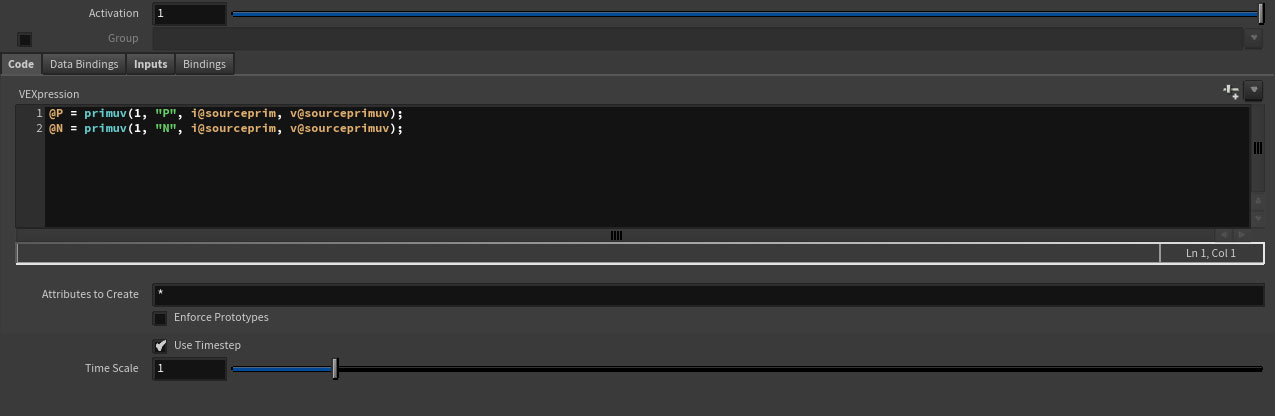
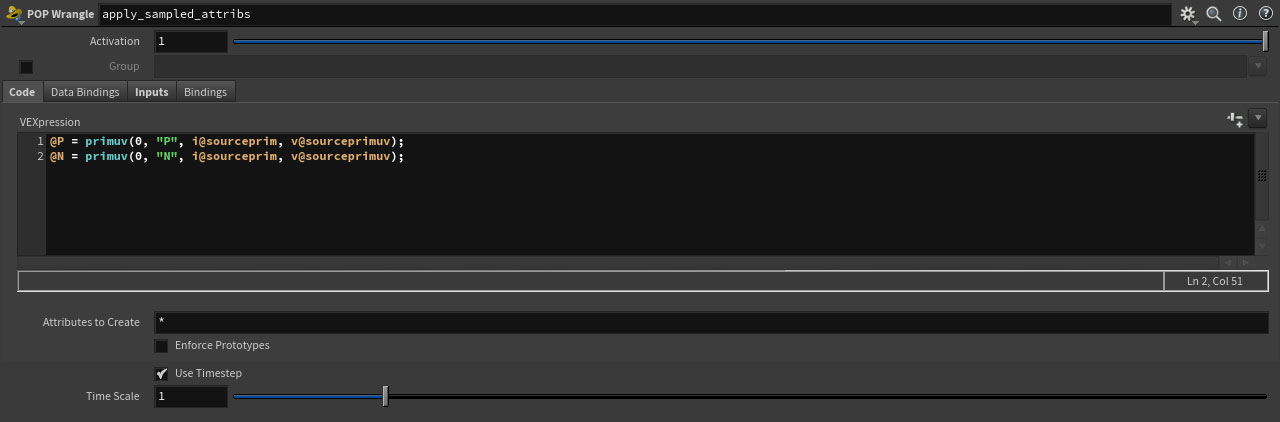
Pops update

diff --git a/_notes/traverse-pops.md b/_notes/traverse-pops.md
@@ -25,11 +25,13 @@ Matt Estela has a longer write up of the extremely useful primuv(), [here](https
 
 With this in mind, we can scatter particles onto prims, record the prim on which that particle sits, and then send it along the prim by adjusting a uv attrib and sampling with ```primuv(0, "P", i@sourceprim, v@sourceuv)```. It's not unlike what the combo of a ScatterSOP (with @sourceprim and @sourceprimuv attribs ticked) followed by an AttributeInterpolateSOP might do. Cool, but what happens when we reach the end of the prim we've been travelling along? We need to pick a new one. So...
 
-This is the POPs network. We have a POPLocation, a clump of nodes that handle the traversal logic, and a couple of nodes for point replication (more on that later).
+This is the POPs network. We have a POPLocation to source points at the root of the network, a clump of nodes that handle the prim traversal logic, and a couple of nodes for point replication (more on that later).
+
+I should also note that the network of curves is the first input of the POPNet, with all wrangles inside having their input parms set accordingly. So any references to ```foo(0,...)``` are inspecting the original curve network.
 
 ![Overview](/assets/notes/traversal-pops/traverse_pops_overview.jpg)
 
-So we spawn our points, and let the just born particles (defined with a group in the POPLocation) decide at random which of the prims connected to our starting point that they travel along. This does that:
+So, to begin we spawn our points, and let the just born particles (defined with a group in the POPLocation) decide at random which of the prims connected to our root they travel along. This does that:
 
 ![Initialize](/assets/notes/traversal-pops/traverse_pops_init.jpg)
 
@@ -39,13 +41,15 @@ We can retrieve an array of prims connected to any point with the function primp
 
 So yes, we increment the U value that we're using to sample the position on a prim, with a bit of per-particle speed randomization and adjusting for prim length as we go. Looking at this now we could probably optimize away a few of the less prone to changing values, but none the less:
 
-![Traverse](/assets/notes/traversal-pops/traverse_pops_traverse.jpg)
+![Traverse](/assets/notes/traversal-pops/traverse_pops_inc_u.jpg)
 
 We now have all the information we need to sample the position, so let's do that. The position, and a normal to orient the particle in the direction of the curve (created with an OrientAlongCurveSOP on the sampled curve network):
 
 ![Apply attribs](/assets/notes/traversal-pops/traverse_pops_apply.jpg)
 
 But what about when we approach a junction? We need to pick a new prim. Here's how.
+
+![Apply attribs](/assets/notes/traversal-pops/traverse_pops_reinit.jpg)
 
 Any point with a U value greater than one has effectively moved beyond the end of the prim that it's been travelling along, so we can use this to find all the particles that need to choose their next prim. Now, in a similiar way as when picking our initial prim, we can now look up the prims connected to thisthe final point of our *current* prim, and start the process again. We pick a new prim, we reset the uv, we continue onward.
 
@@ -56,8 +60,8 @@ BUT. One more thing? As mentioned earlier, a common problem with branching struc
 So in this instance, rather than having a particle decide which branch to travel down, we can spawn sufficient particles in order to simaultaniously send something along each downstream prim. Why not.
 
 <div class="gallery" data-columns="2">
-	<img src="/assets/notes/traversal-pops/traverse_pops_branch_source.jpg">
-	<img src="/assets/notes/traversal-pops/traverse_pops_initbranches.jpg">	
+	<img src="/assets/notes/traversal-pops/traverse_pops_replicate.jpg">
+	<img src="/assets/notes/traversal-pops/traverse_pops_replicants.jpg">	
 </div>
 
-We use a *branch_emission* attrib that dictates how many replicants will be spawned, and then we cycle though our array of connected prims to send the new particles on their way.
+We use a *branch_count* attrib that dictates how many replicants will be spawned, and then we cycle though our array of connected prims to send the new particles on their way.
